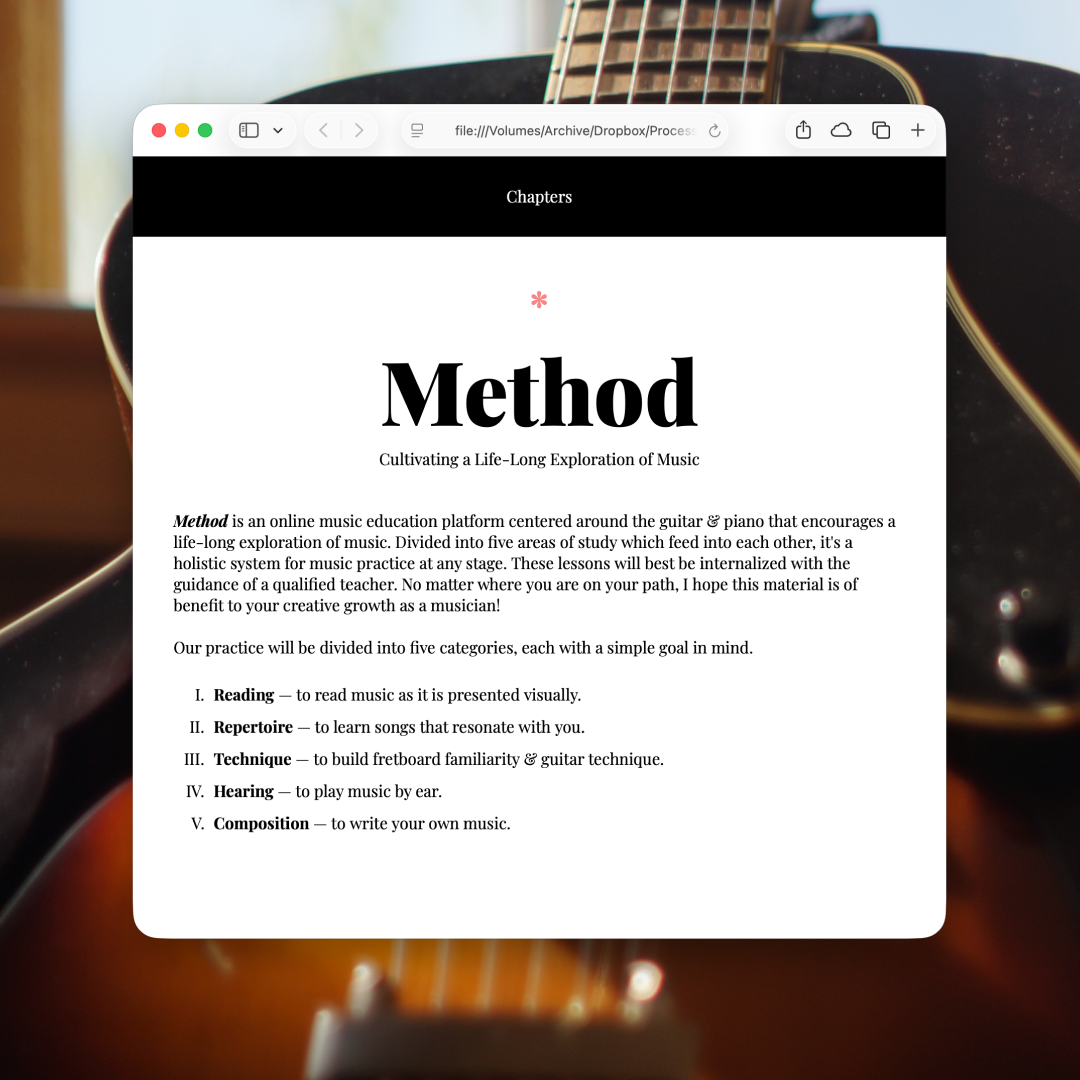
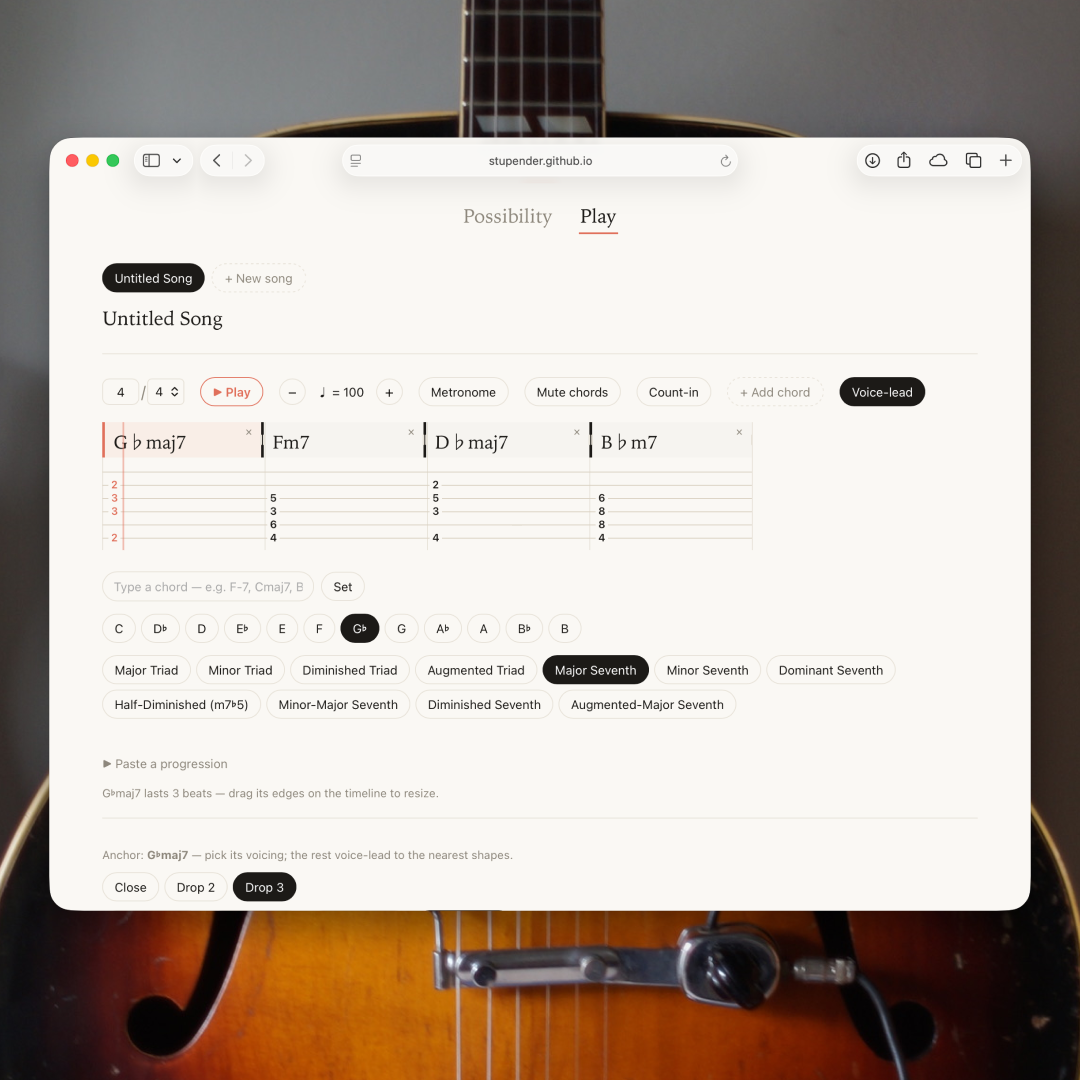
Update apps project cards

diff --git a/404.html b/404.html
@@ -45,7 +45,7 @@
                     <p class="filter-title">WORK</p>
                     <a href="#" class="filter-item personal">Music</a>
                     <a href="#" class="filter-item collaboration">Collaborations</a>
-                    <a href="#" class="filter-item projects">Projects</a>
+                    <a href="#" class="filter-item projects">Apps</a>
                 </div>
             </nav>
     
@@ -960,7 +960,7 @@
 
             <div class="projects-container page-section">
                 <div class="projects-intro">
-                    <p class="contact-title">PROJECTS</p>
+                    <p class="contact-title">APPS</p>
                     <!--
                     <p class="projects-intro-text">
                         A selection of design, technology, and creative-systems work — built for artists, practitioners, and organizations whose offerings ask for care.
@@ -972,6 +972,20 @@
 
                     <div class="album-card">
                         <div class="album-card-image">
+                            <a class="album-card-thumb-link" href="https://stupender.github.io/method/" target="_blank">
+                                <img src="images/projects/Method.png" alt="Method">
+                                <div class="album-card-overlay"></div>
+                            </a>
+                        </div>
+                        <div class="album-card-info">
+                            <p class="album-card-type">WEB APP</p>
+                            <div class="album-card-title"><a href="https://stupender.github.io/method/" target="_blank">Method</a></div>
+                            <div class="album-card-meta">A Living, Interactive Music Textbook · 2026</div>
+                        </div>
+                    </div>
+
+                    <div class="album-card">
+                        <div class="album-card-image">
                             <a class="album-card-thumb-link" href="#" data-project="audio-archive">
                                 <img src="images/projects/Audio%20Archive.png" alt="Audio Archive">
                                 <div class="album-card-overlay"></div>
@@ -980,20 +994,20 @@
                         <div class="album-card-info">
                             <p class="album-card-type">IOS APP</p>
                             <div class="album-card-title"><a href="#" data-project="audio-archive">Audio Archive</a></div>
-                            <div class="album-card-meta">Working prototype · 2026</div>
+                            <div class="album-card-meta">Sonic Catalog &amp; Creative Process Tool · 2026</div>
                         </div>
                     </div>
 
                     <div class="album-card">
                         <div class="album-card-image">
-                            <a class="album-card-thumb-link" href="#" data-project="yoga-of-the-voice">
+                            <a class="album-card-thumb-link" href="https://stupender.github.io/yoga-of-the-voice/" target="_blank">
                                 <img src="images/projects/Yoga%20of%20the%20Voice.png" alt="Yoga of the Voice">
                                 <div class="album-card-overlay"></div>
                             </a>
                         </div>
                         <div class="album-card-info">
                             <p class="album-card-type">LANDING PAGE</p>
-                            <div class="album-card-title"><a href="#" data-project="yoga-of-the-voice">Yoga of the Voice — Silvia Nakkach</a></div>
+                            <div class="album-card-title"><a href="https://stupender.github.io/yoga-of-the-voice/" target="_blank">Yoga of the Voice — Silvia Nakkach</a></div>
                             <div class="album-card-meta">For Vox Mundi School · 2026</div>
                         </div>
                     </div>
@@ -1014,14 +1028,14 @@
 
                     <div class="album-card">
                         <div class="album-card-image">
-                            <a class="album-card-thumb-link" href="#" data-project="notion-workspaces">
+                            <a class="album-card-thumb-link" href="https://beingsound.substack.com/p/free-resource-listening-journal" target="_blank">
                                 <img src="images/projects/Notion.png" alt="Notion Workspaces">
                                 <div class="album-card-overlay"></div>
                             </a>
                         </div>
                         <div class="album-card-info">
                             <p class="album-card-type">NOTION TEMPLATES</p>
-                            <div class="album-card-title"><a href="#" data-project="notion-workspaces">Listening Journal</a></div>
+                            <div class="album-card-title"><a href="https://beingsound.substack.com/p/free-resource-listening-journal" target="_blank">Listening Journal</a></div>
                             <div class="album-card-meta">For Being Sound on Substack</div>
                         </div>
                     </div>
@@ -1040,35 +1054,7 @@
                         </div>
                     </div>
 
-                    <div class="album-card">
-                        <div class="album-card-image">
-                            <a class="album-card-thumb-link" href="#" data-project="expressionist">
-                                <img src="images/projects/Expressionist.png" alt="Expressionist">
-                                <div class="album-card-overlay"></div>
-                            </a>
-                        </div>
-                        <div class="album-card-info">
-                            <p class="album-card-type">STARTUP / PRODUCT DESIGN</p>
-                            <div class="album-card-title"><a href="#" data-project="expressionist">Expressionist</a></div>
-                            <div class="album-card-meta">Funded startup · 2020–22</div>
-                        </div>
-                    </div>
-
                     <!-- <div class="album-card">
-                        <div class="album-card-image">
-                            <a class="album-card-thumb-link" href="#" data-project="method">
-                                <img src="images/projects/Method.png" alt="Method">
-                                <div class="album-card-overlay"></div>
-                            </a>
-                        </div>
-                        <div class="album-card-info">
-                            <p class="album-card-type">MUSIC THEORY &amp; EDUCATION</p>
-                            <div class="album-card-title"><a href="#" data-project="method">Method</a></div>
-                            <div class="album-card-meta">Teaching tools &amp; materials · ongoing</div>
-                        </div>
-                    </div>
-
-                    <div class="album-card">
                         <div class="album-card-image">
                             <a class="album-card-thumb-link" href="#" data-project="ground-beneath-our-feet">
                                 <img src="images/projects/Ground%20Beneath%20Our%20Feet.png" alt="Ground Beneath Our Feet">

diff --git a/index.html b/index.html
@@ -45,7 +45,7 @@
                     <p class="filter-title">WORK</p>
                     <a href="#" class="filter-item personal">Music</a>
                     <a href="#" class="filter-item collaboration">Collaborations</a>
-                    <a href="#" class="filter-item projects">Projects</a>
+                    <a href="#" class="filter-item projects">Apps</a>
                 </div>
             </nav>
     
@@ -960,7 +960,7 @@
 
             <div class="projects-container page-section">
                 <div class="projects-intro">
-                    <p class="contact-title">PROJECTS</p>
+                    <p class="contact-title">APPS</p>
                     <!--
                     <p class="projects-intro-text">
                         A selection of design, technology, and creative-systems work — built for artists, practitioners, and organizations whose offerings ask for care.
@@ -972,6 +972,20 @@
 
                     <div class="album-card">
                         <div class="album-card-image">
+                            <a class="album-card-thumb-link" href="https://stupender.github.io/method/" target="_blank">
+                                <img src="images/projects/Method.png" alt="Method">
+                                <div class="album-card-overlay"></div>
+                            </a>
+                        </div>
+                        <div class="album-card-info">
+                            <p class="album-card-type">WEB APP</p>
+                            <div class="album-card-title"><a href="https://stupender.github.io/method/" target="_blank">Method</a></div>
+                            <div class="album-card-meta">A Living, Interactive Music Textbook · 2026</div>
+                        </div>
+                    </div>
+
+                    <div class="album-card">
+                        <div class="album-card-image">
                             <a class="album-card-thumb-link" href="#" data-project="audio-archive">
                                 <img src="images/projects/Audio%20Archive.png" alt="Audio Archive">
                                 <div class="album-card-overlay"></div>
@@ -980,20 +994,20 @@
                         <div class="album-card-info">
                             <p class="album-card-type">IOS APP</p>
                             <div class="album-card-title"><a href="#" data-project="audio-archive">Audio Archive</a></div>
-                            <div class="album-card-meta">Working prototype · 2026</div>
+                            <div class="album-card-meta">Sonic Catalog &amp; Creative Process Tool · 2026</div>
                         </div>
                     </div>
 
                     <div class="album-card">
                         <div class="album-card-image">
-                            <a class="album-card-thumb-link" href="#" data-project="yoga-of-the-voice">
+                            <a class="album-card-thumb-link" href="https://stupender.github.io/yoga-of-the-voice/" target="_blank">
                                 <img src="images/projects/Yoga%20of%20the%20Voice.png" alt="Yoga of the Voice">
                                 <div class="album-card-overlay"></div>
                             </a>
                         </div>
                         <div class="album-card-info">
                             <p class="album-card-type">LANDING PAGE</p>
-                            <div class="album-card-title"><a href="#" data-project="yoga-of-the-voice">Yoga of the Voice — Silvia Nakkach</a></div>
+                            <div class="album-card-title"><a href="https://stupender.github.io/yoga-of-the-voice/" target="_blank">Yoga of the Voice — Silvia Nakkach</a></div>
                             <div class="album-card-meta">For Vox Mundi School · 2026</div>
                         </div>
                     </div>
@@ -1014,14 +1028,14 @@
 
                     <div class="album-card">
                         <div class="album-card-image">
-                            <a class="album-card-thumb-link" href="#" data-project="notion-workspaces">
+                            <a class="album-card-thumb-link" href="https://beingsound.substack.com/p/free-resource-listening-journal" target="_blank">
                                 <img src="images/projects/Notion.png" alt="Notion Workspaces">
                                 <div class="album-card-overlay"></div>
                             </a>
                         </div>
                         <div class="album-card-info">
                             <p class="album-card-type">NOTION TEMPLATES</p>
-                            <div class="album-card-title"><a href="#" data-project="notion-workspaces">Listening Journal</a></div>
+                            <div class="album-card-title"><a href="https://beingsound.substack.com/p/free-resource-listening-journal" target="_blank">Listening Journal</a></div>
                             <div class="album-card-meta">For Being Sound on Substack</div>
                         </div>
                     </div>
@@ -1040,35 +1054,7 @@
                         </div>
                     </div>
 
-                    <div class="album-card">
-                        <div class="album-card-image">
-                            <a class="album-card-thumb-link" href="#" data-project="expressionist">
-                                <img src="images/projects/Expressionist.png" alt="Expressionist">
-                                <div class="album-card-overlay"></div>
-                            </a>
-                        </div>
-                        <div class="album-card-info">
-                            <p class="album-card-type">STARTUP / PRODUCT DESIGN</p>
-                            <div class="album-card-title"><a href="#" data-project="expressionist">Expressionist</a></div>
-                            <div class="album-card-meta">Funded startup · 2020–22</div>
-                        </div>
-                    </div>
-
                     <!-- <div class="album-card">
-                        <div class="album-card-image">
-                            <a class="album-card-thumb-link" href="#" data-project="method">
-                                <img src="images/projects/Method.png" alt="Method">
-                                <div class="album-card-overlay"></div>
-                            </a>
-                        </div>
-                        <div class="album-card-info">
-                            <p class="album-card-type">MUSIC THEORY &amp; EDUCATION</p>
-                            <div class="album-card-title"><a href="#" data-project="method">Method</a></div>
-                            <div class="album-card-meta">Teaching tools &amp; materials · ongoing</div>
-                        </div>
-                    </div>
-
-                    <div class="album-card">
                         <div class="album-card-image">
                             <a class="album-card-thumb-link" href="#" data-project="ground-beneath-our-feet">
                                 <img src="images/projects/Ground%20Beneath%20Our%20Feet.png" alt="Ground Beneath Our Feet">

diff --git a/styles.css b/styles.css
@@ -475,7 +475,7 @@ a:hover {
 
 .projects-intro {
     max-width: 720px;
-    margin-bottom: 25px;
+    margin-bottom: 15px;
 }
 
 .projects-intro-text {